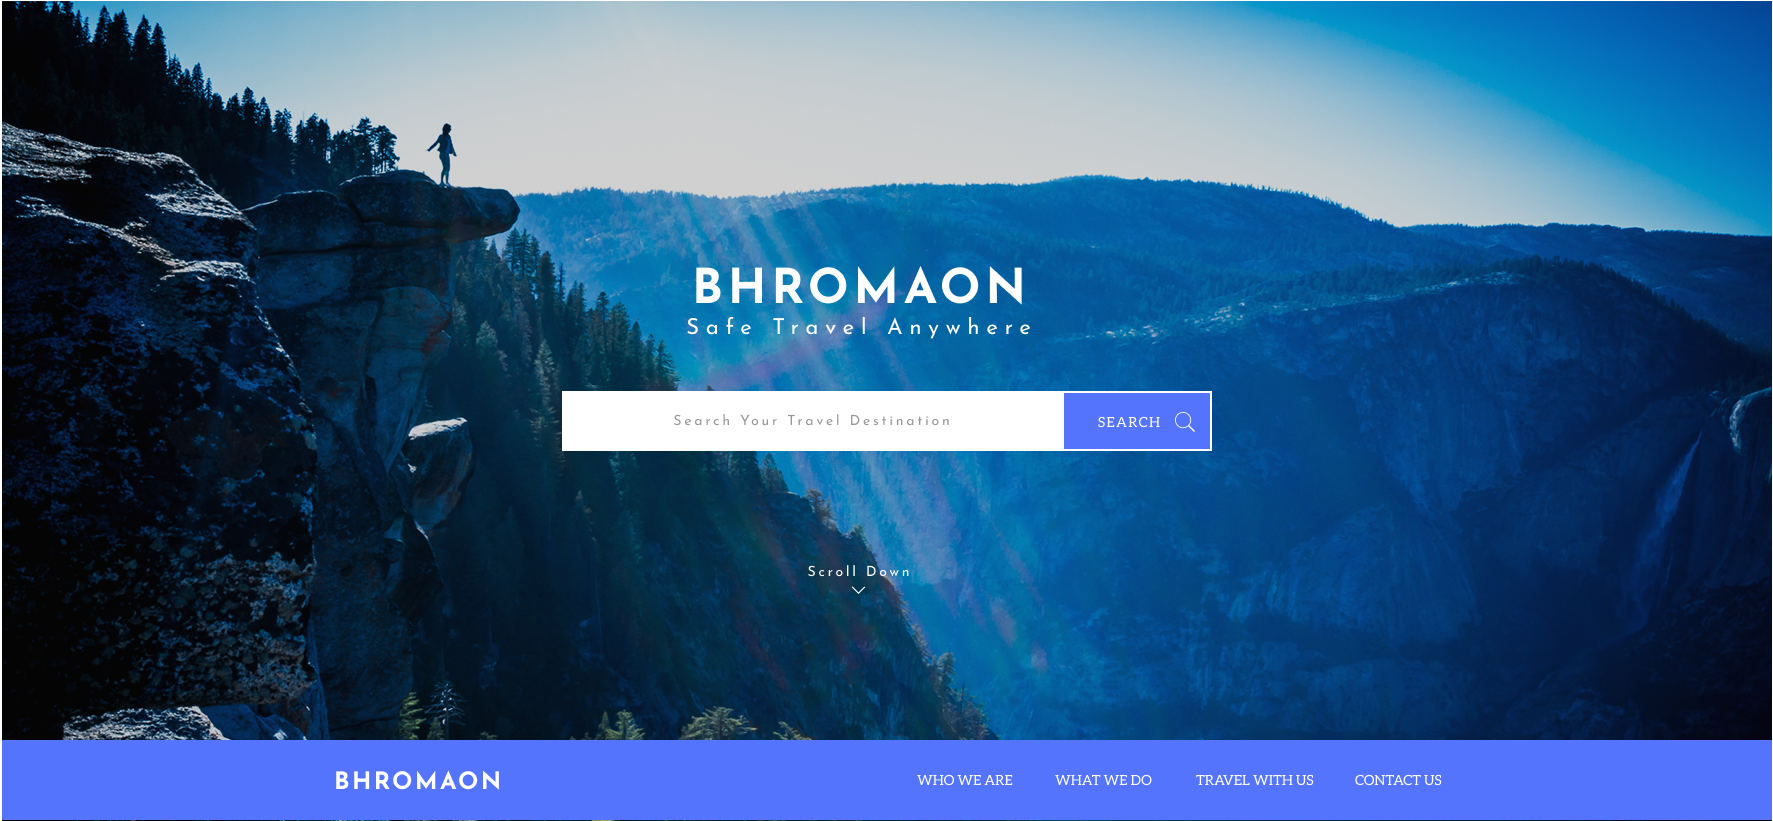
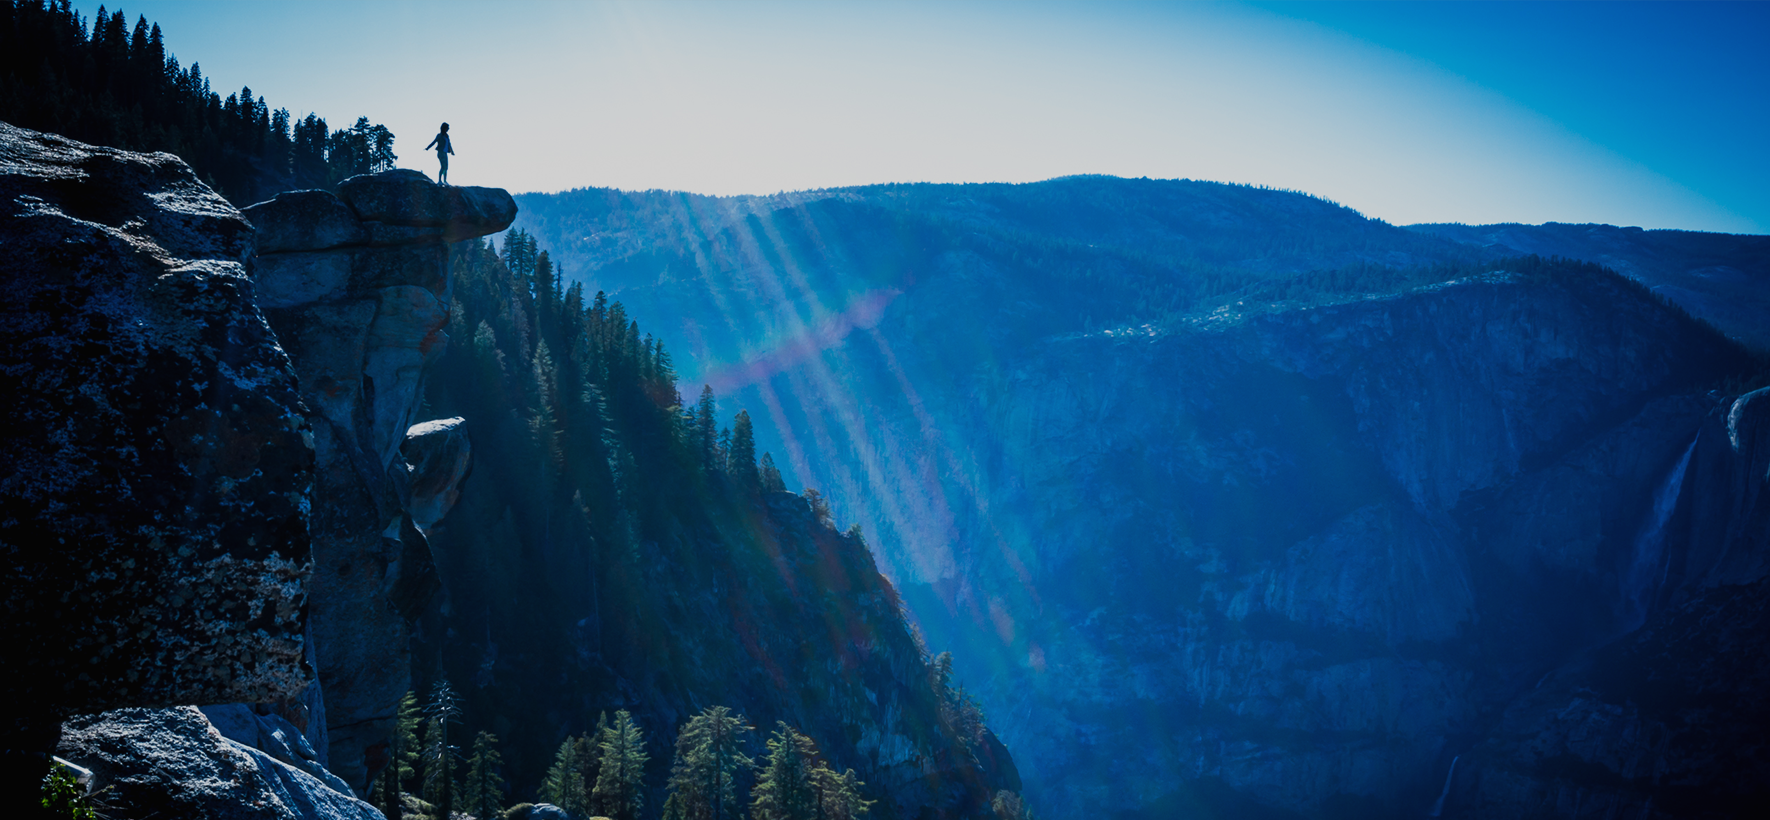
header

diff --git a/styles/index.scss b/styles/index.scss
@@ -1,0 +1,99 @@
+@import "fonts";
+@import "buttons";
+
+body {
+    margin: 15px;
+    width: 100%;
+    font-family: $mainFont;
+    color: $fontColor;
+}
+
+a {
+    text-decoration: none;
+}
+
+.section {
+    max-width: 1770px;
+    width: 100%
+}
+
+.header {
+    height: 100vh;
+}
+
+.header-wrapper {
+    width: 100%;
+    max-height: 737px;
+    height: 100%;
+    background-image: url("../images/Header.png");
+    background-position: center;
+    background-size: cover;
+    display: flex;
+    justify-content: center;
+    align-items: center;
+}
+
+.header-container {
+    max-width: 660px;
+    width: 100%;
+
+    .text-container {
+        text-align: center;
+
+        & h1 {
+            font-style: normal;
+            font-weight: bold;
+            font-size: 48px;
+            line-height: 26px;
+            letter-spacing: 4.8px;
+            text-transform: uppercase;
+        }
+
+        & h4 {
+            font-style: normal;
+            font-weight: normal;
+            font-size: 22px;
+            line-height: 26px;
+            letter-spacing: 6.82px;
+            margin-top: 11px;
+        }
+
+    }
+
+    .search-container {
+        width: 100%;
+        margin-top: 48px;
+        display: flex;
+
+        & form {
+            width: 100%;
+        }
+
+        & input {
+            width: 503px;
+            height: 40px;
+            background: #FFFFFF;
+            text-align: center;
+            font-family: $mainFont;
+            font-style: normal;
+            font-weight: normal;
+            font-size: 14px;
+            letter-spacing: 2.8px;
+            color: #999999;
+        }
+
+        & button {
+            @extend %btn;
+            max-width: 153px;
+            width: 100%;
+            height: 40px;
+            border: 2px solid #FFFFFF;
+            box-sizing: border-box;
+        }
+    }
+
+    .scroll-container {
+        text-align: center;
+    }
+    
+}

diff --git a/styles/index.css b/styles/index.css
@@ -1,2 +1,97 @@
+.header-container .search-container button {
+  font-family: "Aleo", serif;
+  background: #5474FD;
+  font-style: normal;
+  font-weight: normal;
+  font-size: 14px;
+  line-height: 26px;
+  letter-spacing: 1.4px;
+  text-transform: uppercase;
+}
 
+body {
+  margin: 15px;
+  width: 100%;
+  font-family: "Josefin Sans", sans-serif;
+  color: #FFFFFF;
+}
+
+a {
+  text-decoration: none;
+}
+
+.section {
+  max-width: 1770px;
+  width: 100%;
+}
+
+.header {
+  height: 100vh;
+}
+
+.header-wrapper {
+  width: 100%;
+  max-height: 737px;
+  height: 100%;
+  background-image: url("../images/Header.png");
+  background-position: center;
+  background-size: cover;
+  display: flex;
+  justify-content: center;
+  align-items: center;
+}
+
+.header-container {
+  max-width: 660px;
+  width: 100%;
+}
+.header-container .text-container {
+  text-align: center;
+}
+.header-container .text-container h1 {
+  font-style: normal;
+  font-weight: bold;
+  font-size: 48px;
+  line-height: 26px;
+  letter-spacing: 4.8px;
+  text-transform: uppercase;
+}
+.header-container .text-container h4 {
+  font-style: normal;
+  font-weight: normal;
+  font-size: 22px;
+  line-height: 26px;
+  letter-spacing: 6.82px;
+  margin-top: 11px;
+}
+.header-container .search-container {
+  width: 100%;
+  margin-top: 48px;
+  display: flex;
+}
+.header-container .search-container form {
+  width: 100%;
+}
+.header-container .search-container input {
+  width: 503px;
+  height: 40px;
+  background: #FFFFFF;
+  text-align: center;
+  font-family: "Josefin Sans", sans-serif;
+  font-style: normal;
+  font-weight: normal;
+  font-size: 14px;
+  letter-spacing: 2.8px;
+  color: #999999;
+}
+.header-container .search-container button {
+  max-width: 153px;
+  width: 100%;
+  height: 40px;
+  border: 2px solid #FFFFFF;
+  box-sizing: border-box;
+}
+.header-container .scroll-container {
+  text-align: center;
+}
 /*# sourceMappingURL=index.css.map */

diff --git a/index.html b/index.html
@@ -12,8 +12,8 @@
 
 </head>
 <body>
-    <header class="header">
-        <div class="wrapper">
+    <header class="header section">
+        <div class="header-wrapper">
             <div class="header-container">
                 <div class="text-container">
                     <h1>Bhromaon</h1>
@@ -22,7 +22,7 @@
                 <div class="search-container">
                     <form action="">
                       <input type="text" placeholder="Search Your Travel Destination" name="search">
-                      <button type="submit"><i class="fas fa-search"></i></button>
+                      <button type="submit">Search<i class="fas fa-search"></i></button>
                     </form>
                 </div>
                 <div class="scroll-container">

diff --git a/styles/_buttons.scss b/styles/_buttons.scss
@@ -1,0 +1,10 @@
+%btn {
+    font-family: $secondaryFont;
+    background: #5474FD;
+    font-style: normal;
+    font-weight: normal;
+    font-size: 14px;
+    line-height: 26px;
+    letter-spacing: 1.4px;
+    text-transform: uppercase;
+}

diff --git a/styles/_fonts.scss b/styles/_fonts.scss
@@ -1,0 +1,3 @@
+$mainFont: 'Josefin Sans', sans-serif;
+$secondaryFont: 'Aleo', serif;
+$fontColor: #FFFFFF;
